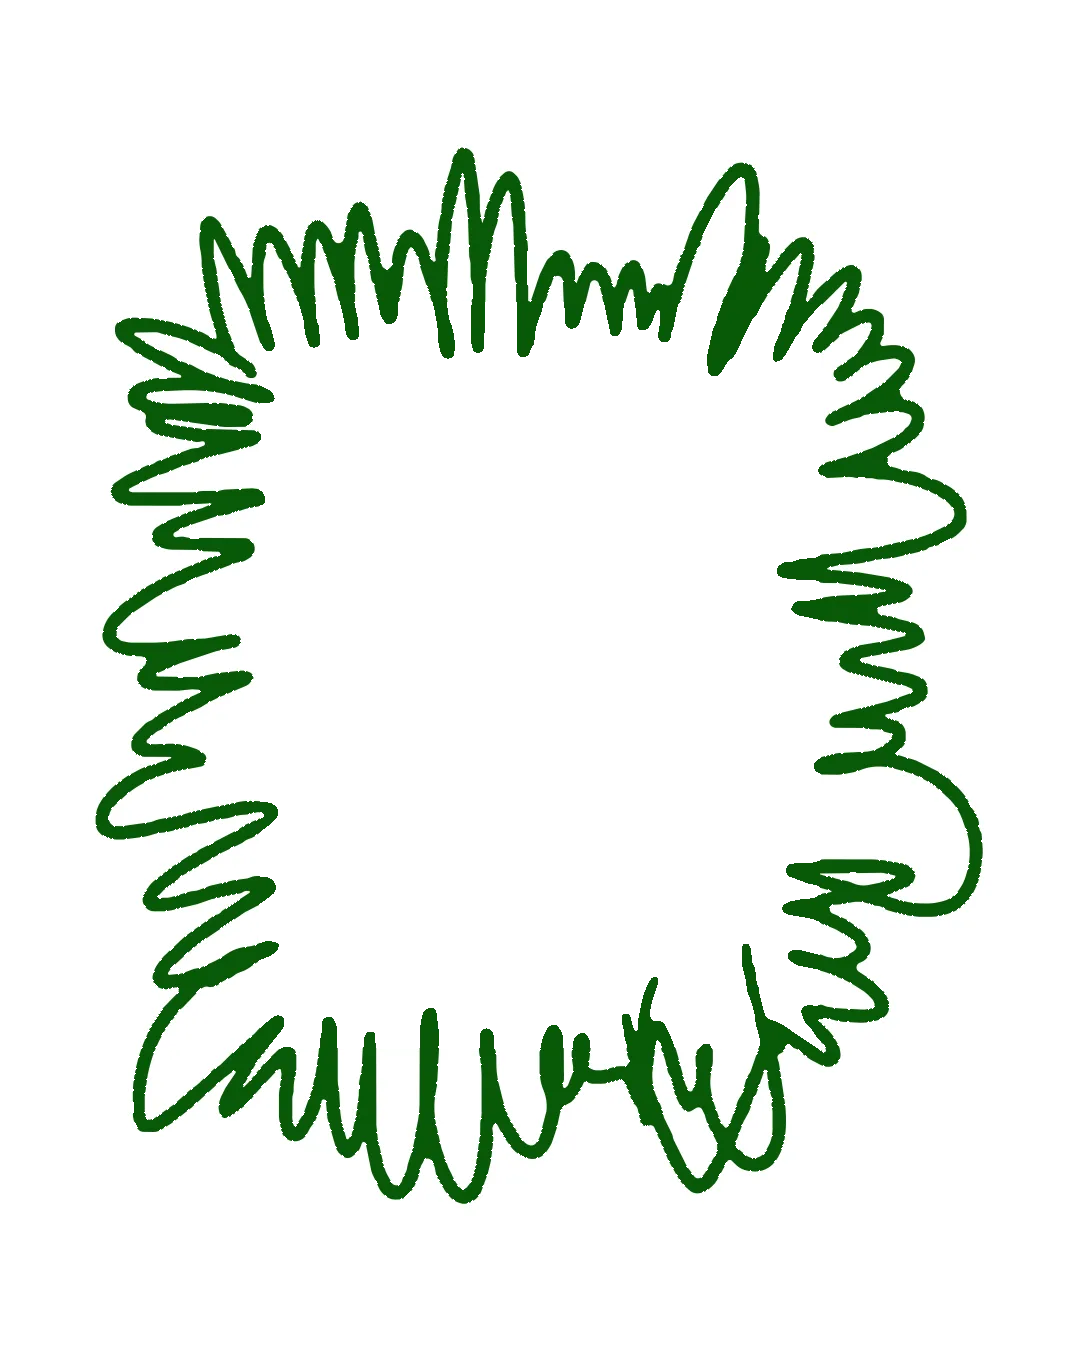
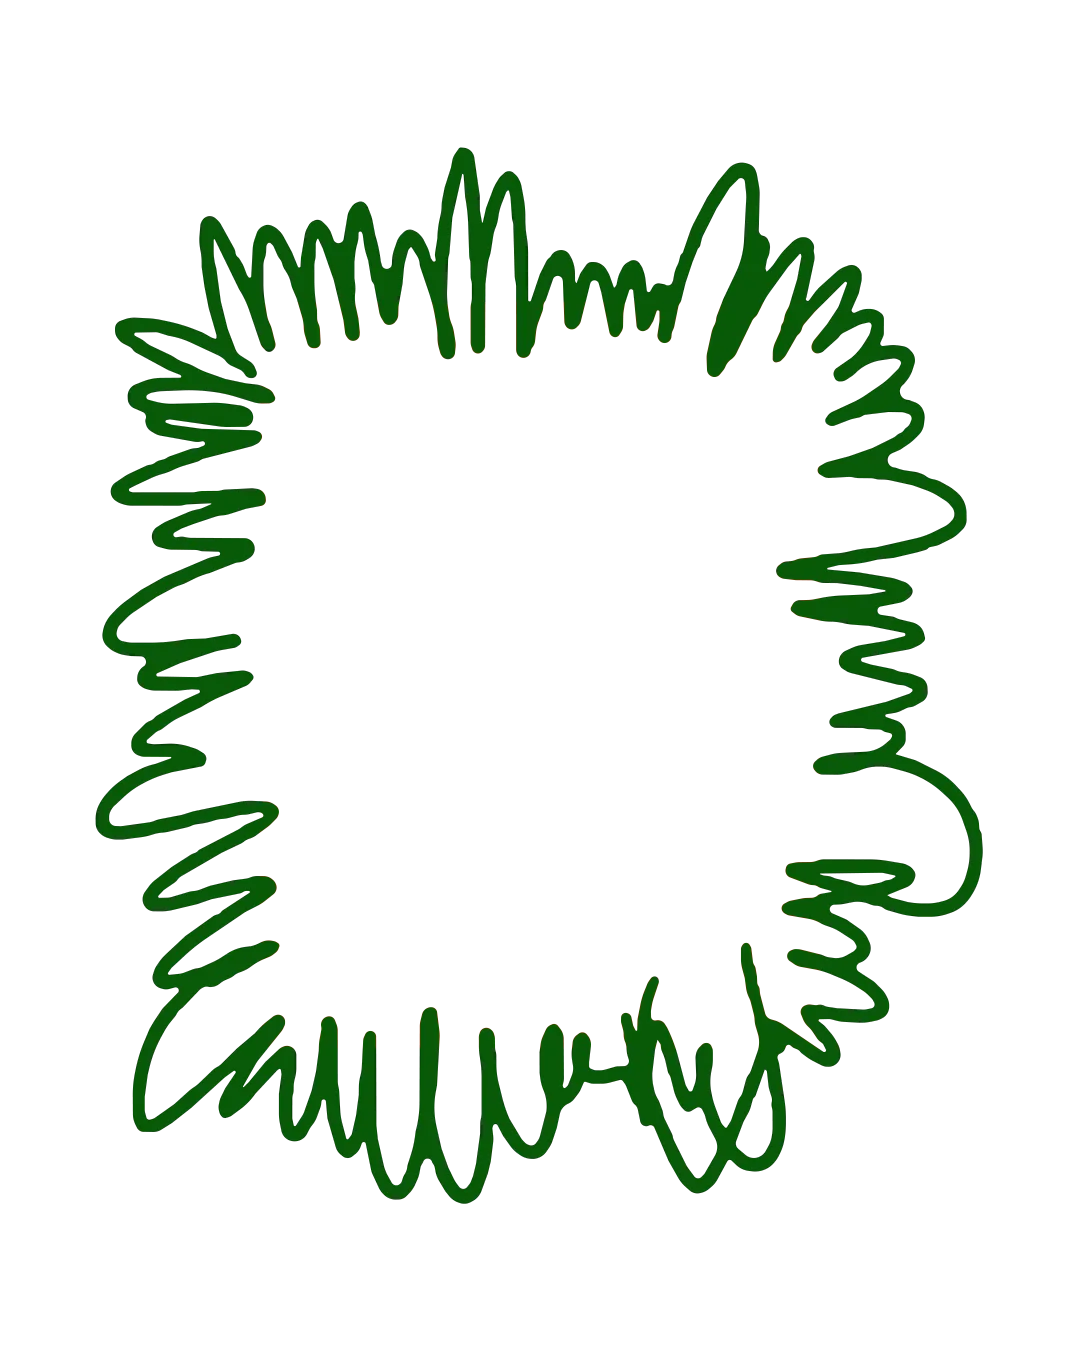
feat: Doodle v2 이행 — 디자이너 재전달본(규약 명명), 낙서 오버레이
- 재전달본: _background → _sample_gray 규약 명명, 레이어 전부 재내보내기 —
  오버라이드 없이 표준 처리. Fourleafclover도 _sample.png로 고쳐져 sampleName 오버라이드 제거
- 슬롯 main 1칸(560×746 완전 사각) — v1 마스크 2장 삭제. layer01(흰 배경)=base,
  layer03(낙서)=overlay로 사진 위에 얹힘. 합성 회귀 post/story 0.000%
- 시각 회귀 임계값 3%→4%: v2 시안(3배 해상도)의 섬세한 낙서 AA가 만드는 서브픽셀 보간
  잡음이 post 표시 배율에서 3.2%까지 관측 — 층 순서 오류(수십%) 감지력은 유지

diff --git a/scripts/derive-frames.ts b/scripts/derive-frames.ts
@@ -106,6 +106,15 @@ const FRAME_CONFIGS: FrameConfig[] = [
     slotLayer: 2,
   },
   {
+    id: "doodle",
+    name: "Doodle",
+    order: 5,
+    dir: "Doodle",
+    slots: [{ id: "main", label: "사진" }],
+    // layer03(낙서 스트로크)의 진초록(8,90,7)이 채움으로 오인되므로 슬롯 레이어 명시
+    slotLayer: 2,
+  },
+  {
     id: "fourleafclover",
     name: "Fourleafclover",
     order: 6,
@@ -116,8 +125,6 @@ const FRAME_CONFIGS: FrameConfig[] = [
     ],
     // layer02(네온 클로버 오버레이)가 채움으로 오인되므로 슬롯 레이어 명시
     slotLayer: 1,
-    // 사용 예시가 규약 명명(_sample.png) 대신 이 이름으로 전달됨 (내용 확인 완료)
-    sampleName: "Fourleafclover_post.png",
   },
   // 나머지 프레임: 한 프레임씩 확인하며 추가 (기존 v1 산출물은 그대로 유지)
 ];

diff --git a/e2e/visual.spec.ts b/e2e/visual.spec.ts
@@ -156,9 +156,10 @@ for (const id of TEMPLATE_IDS) {
             ),
           { timeout: 10000 },
         )
-        // 3%: 고대비 스트로크(doodle 낙서)의 서브픽셀 보간 차이 허용치.
+        // 4%: 고대비 스트로크(doodle 낙서)의 서브픽셀 보간 차이 허용치 — v2 시안(3배 해상도
+        // 재내보내기)에서 AA가 섬세해져 post 표시 배율 기준 3.2%까지 관측(2026-08-07).
         // 레이어 순서·에셋 회귀는 수십% 차이를 내므로 감지력은 유지된다
-        .toBeLessThan(0.03);
+        .toBeLessThan(0.04);
     });
   }
 }

diff --git a/docs/specs/01-template-schema.md b/docs/specs/01-template-schema.md
@@ -2,7 +2,7 @@
 
 - 상태: **Implemented** (v2 레이어 규약 — 2026-08-06)
 - 구현 현황: v2 파생 파이프라인 가동, **한 프레임씩 확인하며 이행 중** (duo·punching·accent·
-  fourleafclover 완료). 나머지는 이행 전까지 기존(v1) 파생 산출물을 그대로 사용한다
+  doodle·fourleafclover 완료 — 남은 v1: weeklydump). 나머지는 이행 전까지 기존(v1) 파생 산출물을 그대로 사용한다
 - **템플릿 id = 디자이너가 준 프레임 이름의 소문자 슬러그** (duo, accent, …). 파일·경로·라우트
   전부 동일 슬러그를 쓰고(`src/templates/<id>.json`, `public/frames/<id>/`, `/editor/<id>`),
   홈 노출 순서는 JSON의 `order` 필드가 담당한다 (2026-08-07 사용자 확정 — 번호식 frameNN 폐기)
